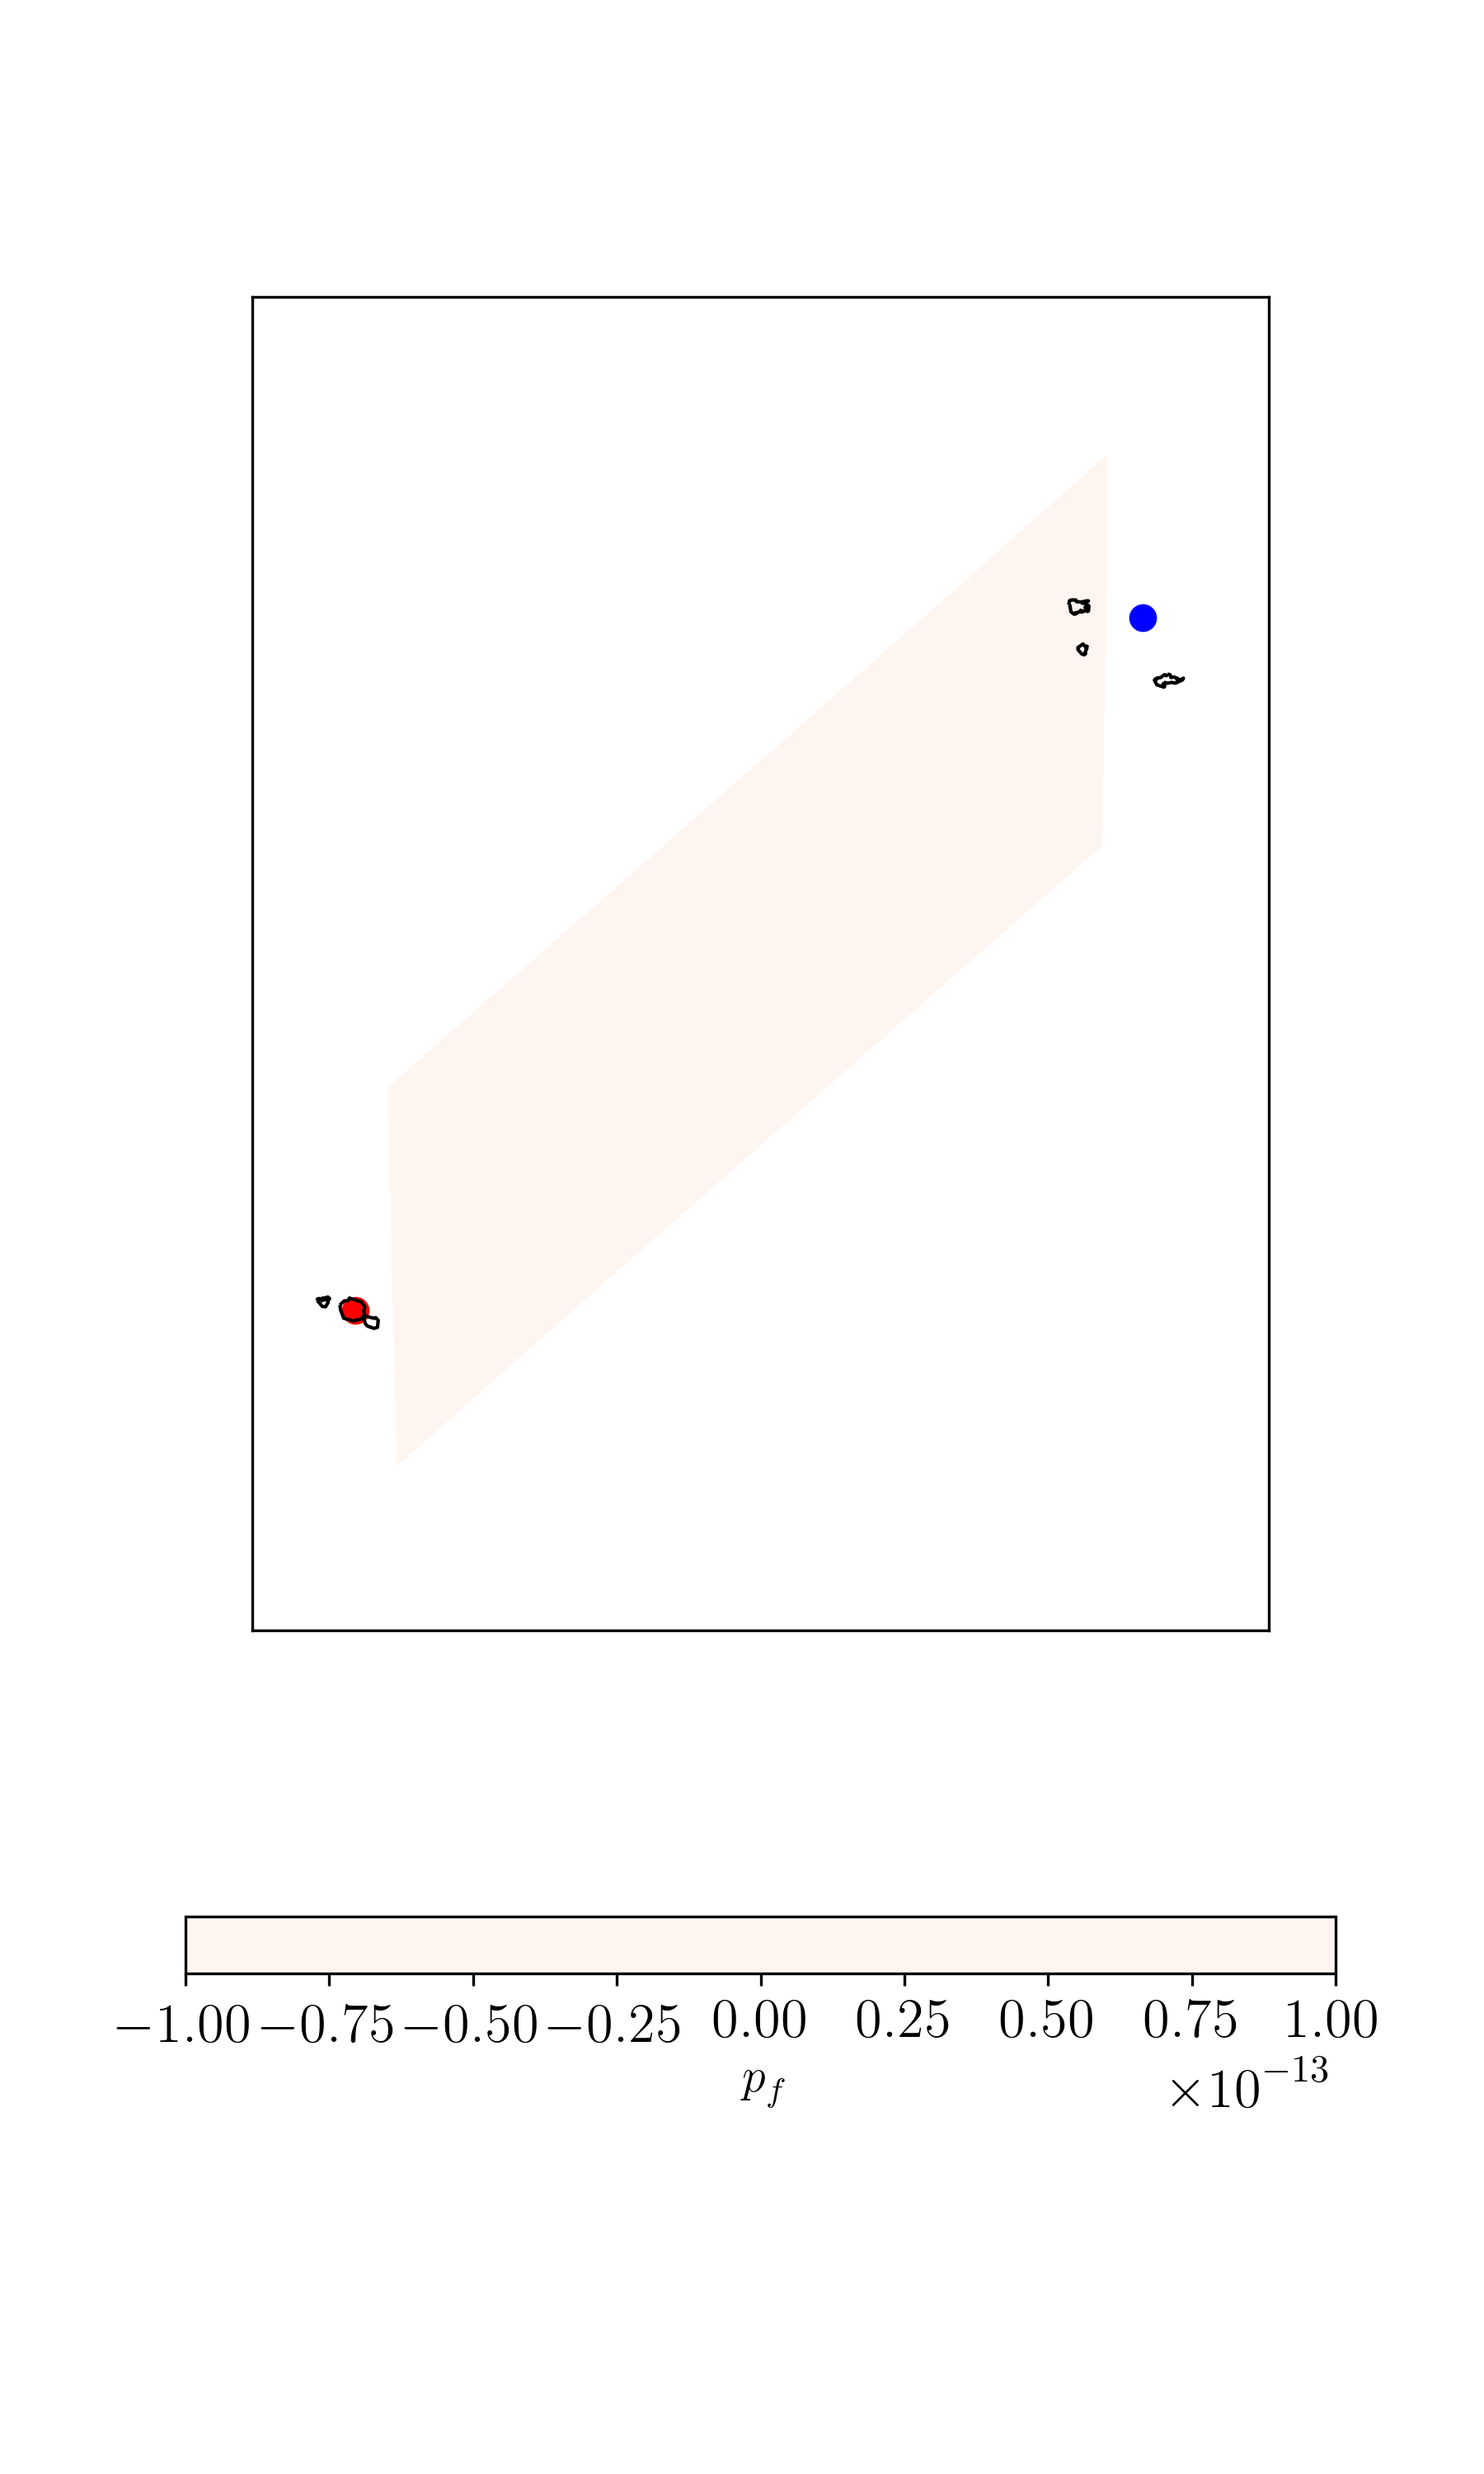
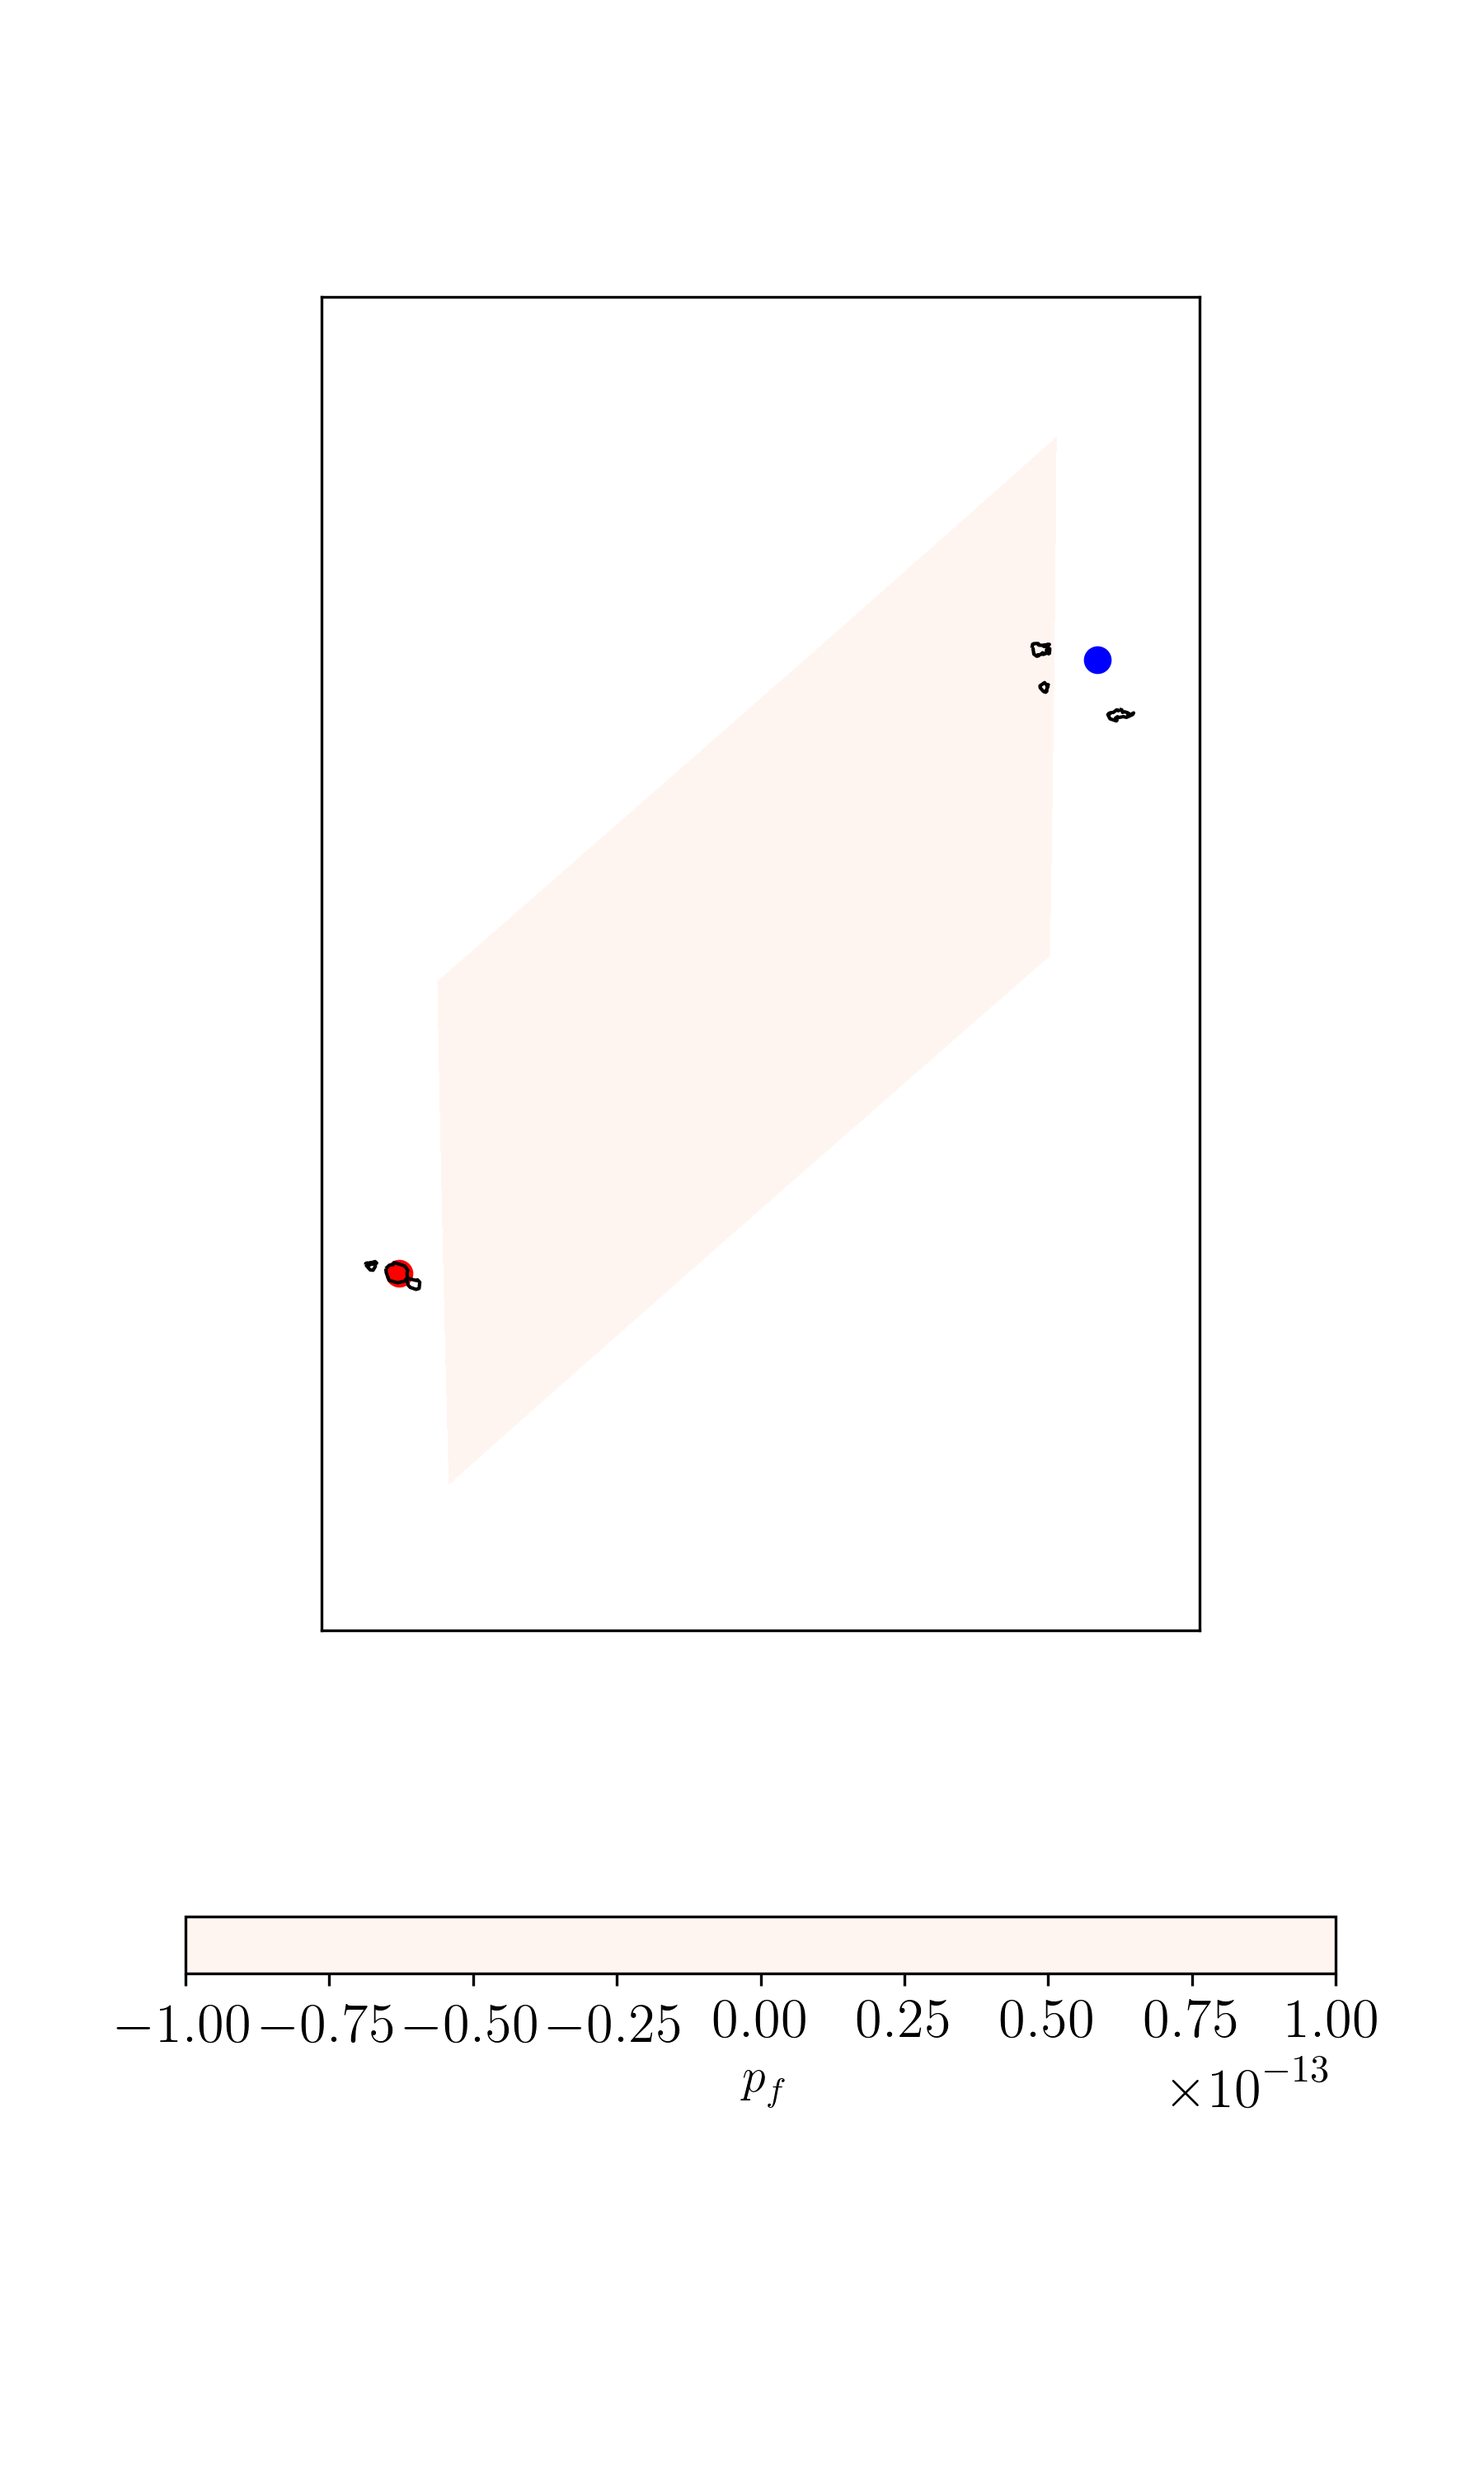
working failure addition

Changed region(s): [[0.7156, 0.248, 0.8089, 0.279], [0.2489, 0.496, 0.28, 0.527], [0.2178, 0.527, 0.2489, 0.558]]

diff --git a/sail_route/sail_routing.py b/sail_route/sail_routing.py
@@ -72,7 +72,8 @@ class Route:
 
 
 @timefunc
-def min_time_calculate(route, time, craft, x, y, land, tws, twd, wd, wh, wp):
+def min_time_calculate(route, time, craft, x, y,
+                       land, tws, twd, wd, wh, wp):
     """Calculate the earliest arrival time across co-ordinates."""
     pf_vals = np.zeros_like(x)  # array to hold failure probability
     earl_time = np.full_like(x, np.inf)  # array to hold earliest times
@@ -83,7 +84,7 @@ def min_time_calculate(route, time, craft, x, y, land, tws, twd, wd, wh, wp):
     wh_interp = setup_interpolator(wh)
     wp_interp = setup_interpolator(wp)
     journey_time = 10**10
-
+    stop_r = 0
     for i in range(route.n_width):
         i_tws = tws_interp([x[0, i], y[0, i], time]).data
         i_twd = twd_interp([x[0, i], y[0, i], time]).data
@@ -95,43 +96,58 @@ def min_time_calculate(route, time, craft, x, y, land, tws, twd, wd, wh, wp):
                                         x[0, i], y[0, i],
                                         i_tws, i_twd,
                                         i_wd, i_wh, i_wp,
-                                        craft)
-        total_time = time + travel_time
-        pf_vals[0, i] = pf
-        earl_time[0, i] = total_time.timestamp()
-        if land[0, i] is True:
-            earl_time[0, i] == np.inf
+                                        craft, stop_r)
+        if (travel_time == np.inf) | (land[0, i] is True):
+            pass
+        else:
+            total_time = time + travel_time
+            pf_vals[0, i] = pf
+            earl_time[0, i] = total_time.timestamp()
     for i in range(route.n_ranks-1):
         for j in range(route.n_width):
-            utime = datetime.fromtimestamp(earl_time[i, j])
-            i_wd = wd_interp([x[i, j], y[i, j], time]).data
-            i_wh = wh_interp([x[i, j], y[i, j], time]).data
-            i_wp = wp_interp([x[i, j], y[i, j], time]).data
-            i_tws = tws_interp([x[i, j], y[i, j], time]).data
-            i_twd = twd_interp([x[i, j], y[i, j], time]).data
-            lifetime = utime - time
-            for k in range(route.n_width):
-                    if land[i+1, k] is True:
-                        earl_time[i+1, k] == np.inf
-                    else:
-                        travel_time, pf = cost_function(x[i, j],
-                                                        y[i, j],
-                                                        x[i+1, k],
-                                                        y[i+1, k],
-                                                        i_tws, i_twd,
-                                                        i_wd, i_wh, i_wp,
-                                                        craft,
-                                                        lifetime)
-                    jt = utime + travel_time
-                    if jt.timestamp() < earl_time[i+1, k]:
-                        earl_time[i+1, k] = jt.timestamp()
-                        pf_vals[i+1, k] = pf
-                        pindxs[i+1, k] = indxs[i, j]
+            if earl_time[i, j] == np.inf:
+                pass
+            else:
+                utime = datetime.fromtimestamp(earl_time[i, j])
+                i_wd = wd_interp([x[i, j], y[i, j], time]).data
+                i_wh = wh_interp([x[i, j], y[i, j], time]).data
+                i_wp = wp_interp([x[i, j], y[i, j], time]).data
+                i_tws = tws_interp([x[i, j], y[i, j], time]).data
+                i_twd = twd_interp([x[i, j], y[i, j], time]).data
+                lifetime = utime - time
+                for k in range(route.n_width):
+                        stop_r = 0
+                        if land[i+1, k] is True:
+                            earl_time[i+1, k] == np.inf
+                        else:
+                            travel_time, pf = cost_function(x[i, j],
+                                                            y[i, j],
+                                                            x[i+1, k],
+                                                            y[i+1, k],
+                                                            i_tws, i_twd,
+                                                            i_wd, i_wh, i_wp,
+                                                            craft,
+                                                            stop_r,
+                                                            lifetime)
+                        if travel_time == np.inf:
+                            pass
+                        else:
+                            jt = utime + travel_time
+                            if jt.timestamp() < earl_time[i+1, k]:
+                                earl_time[i+1, k] = jt.timestamp()
+                                pf_vals[i+1, k] = pf
+                                pindxs[i+1, k] = indxs[i, j]
+                        if stop_r == route.n_width:
+                            print(stop_r)
+                            print("Routing failed. Go sailing another day.")
+                            break
+
     # print(x)
     # print(y)
     # print(earl_time)
     # print(indxs)
     # print(pindxs)
+    stop_r
     for i in range(route.n_width):
         time = datetime.fromtimestamp(earl_time[-1, i])
         i_tws = tws_interp([x[-1, i],
@@ -145,12 +161,19 @@ def min_time_calculate(route, time, craft, x, y, land, tws, twd, wd, wh, wp):
                                         i_tws, i_twd,
                                         i_wd, i_wh, i_wp,
                                         craft,
+                                        stop_r,
                                         lifetime)
-        et = datetime.fromtimestamp(earl_time[-1, i]) + travel_time
-        if datetime.fromtimestamp(journey_time) > et:
-            journey_time = et.timestamp()
-            pf_vals[-1, i] = pf
-            end_node = indxs[-1, i]
+        if travel_time == np.inf:
+            pass
+        else:
+            et = datetime.fromtimestamp(earl_time[-1, i]) + travel_time
+            if datetime.fromtimestamp(journey_time) > et:
+                journey_time = et.timestamp()
+                pf_vals[-1, i] = pf
+                end_node = indxs[-1, i]
+            if stop_r == route.n_width:
+                print("Routing failed. Go sailing another day.")
+                break
     sp = shortest_path(indxs, pindxs, [end_node])
     x_route, y_route = get_locs(indxs, sp, x, y)
     return journey_time, earl_time, pf_vals, x_route, y_route
@@ -189,6 +212,7 @@ def timestamp_to_delta_time(start, x):
 def plot_mt_route(start, route, x, y, x_r, y_r, et, jt, fname):
     """Plot minimum time output from routing simulations."""
     vt = datetime.fromtimestamp(jt) - start
+    ul = jt + vt.total_seconds()/6
     add_param = 2
     res = 'i'
     plt.figure(figsize=(6, 10))
@@ -212,7 +236,8 @@ def plot_mt_route(start, route, x, y, x_r, y_r, et, jt, fname):
     ctf = map.contourf(x, y, et, cmap='gray')
     cbar = plt.colorbar(ctf, orientation='horizontal')
     y_tick_labs = [timestamp_to_delta_time(start, x) for x in
-                   np.linspace(et.min(), et.max(), 9)]
+                   np.linspace(et[et < np.inf].min(),
+                               et[et < np.inf].max(), 9)]
     cbar.ax.set_xticklabels(y_tick_labs, rotation=25)
     plt.legend(bbox_to_anchor=(1.04, 0.5), loc="center left",
                borderaxespad=0)

diff --git a/sail_route/performance/cost_function.py b/sail_route/performance/cost_function.py
@@ -51,7 +51,7 @@ def dir_to_relative(x, y):
 
 @jit(cache=True, nogil=True)
 def cost_function(x1, y1, x2, y2, tws, twd, i_wd, i_wh, i_wp,
-                  craft, lifetime=None):
+                  craft, stop_r, lifetime=None):
     """Calculate the time taken to transit between two locations."""
     dist, bearing = haversine(x1, y1, x2, y2)
     twa = dir_to_relative(bearing, twd)
@@ -63,7 +63,10 @@ def cost_function(x1, y1, x2, y2, tws, twd, i_wd, i_wh, i_wp,
     #     pf = craft_failure_model(lifetime, tws, twa)
     # else:
     pf = 0.0
-    if speed < 0.1:
-        return datetime.timedelta(hours=np.float64(dist/0.01)), pf
+    if (speed < 0.2) | (twa < 30):
+        # print(twa, " ", tws, " ", speed)
+        stop_r += 1
+        # return datetime.timedelta(hours=np.float64(dist/0.01)), pf
+        return np.inf, pf
     else:
         return datetime.timedelta(hours=np.float64(dist/speed)), pf

diff --git a/analysis/canoe_voyaging.py b/analysis/canoe_voyaging.py
@@ -61,9 +61,10 @@ def run_simulation_over_days():
     print("Nodes in width: ", n_width)
     dist, bearing = haversine(tahiti.long, tahiti.lat, marquesas.long,
                               marquesas.lat)
-    node_distance = dist/n_width
+    node_distance = 750*dist/n_width
+    print("Node distance is ", node_distance, " m")
     r = Route(tahiti, marquesas, n_nodes, n_width,
-              node_distance*500, craft)
+              node_distance, craft)
     pyroute_path = "/home/thomas/Documents/pyroute/"
     wind_fname = pyroute_path + "analysis/poly_data/data_dir/wind_forecast.nc"
     waves_fname = pyroute_path + "analysis/poly_data/data_dir/wave_data.nc"

diff --git a/sail_route/performance/craft_performance.py b/sail_route/performance/craft_performance.py
@@ -29,15 +29,8 @@ class polar(object):
     def return_perf(self, tws, twa):
         """Return sailing craft performance."""
         p = interp2d(self.twa_range, self.tws_range, self.perf,
-                     kind='cubic')  # bounds_error=True, fill_value=0.0)
+                     kind='linear')
         return p(twa, tws)
-
-    # @jit(cache=True)
-    # def return_perf(self, tws, twa):
-    #     """Return sailing craft performance."""
-    #     p = RectBivariateSpline(self.tws_range, self.twa_range,
-    #                             self.perf, bbox=[0, 180, 0, 40])
-    #     return p.ev(twa, tws)
 
 
 def return_boat_perf():
